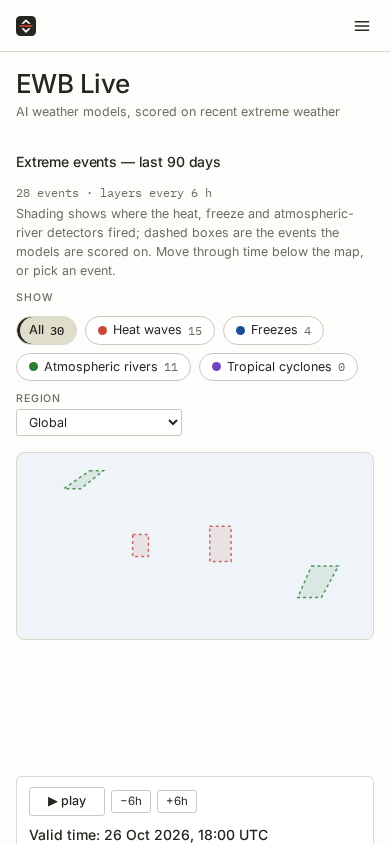
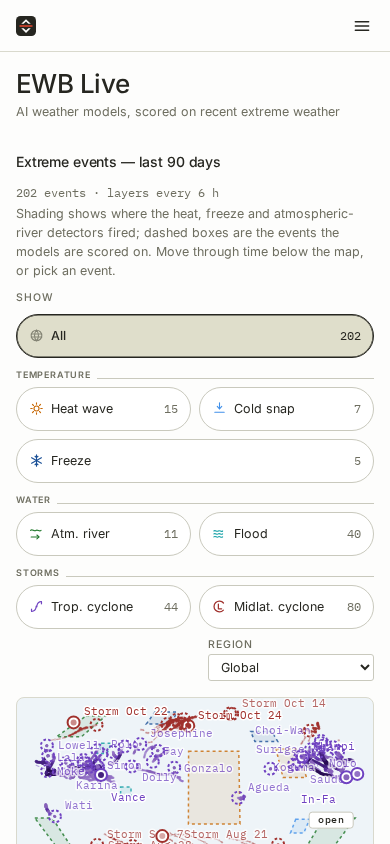
channel DONE (pass 2): /dev/ verified — 7 lanes real data, wind field on the map, console clean, e2e 41F/122P dev vs 48F/113P live with all 7 dev-only failures attributed; promotion notes

diff --git a/notes/channel_new_events.md b/notes/channel_new_events.md
@@ -2726,3 +2726,130 @@ decide the window, truth ends 12 Nov). Then `ops/dev_site.sh assets` for the TC 
 field, then the `:8051` e2e + screenshots.
 
 — integrator
+
+## [integrator] 2026-11-19 00:45 UTC — DONE (pass 2): /dev/ has all 7 lanes with real data, wind field on the map, console clean; e2e 41F/122P on dev vs 48F/113P on live; 3 named defects + what promoting means
+
+**URL: http://192.168.0.121:8051/** (ewb LXC, systemd `ewb-live-dev-web.service`,
+tree `/opt/ewb-live-dev`, own `data/results`; `/opt/ewb-live` never written,
+:8052/:8053 previews untouched). No promotion, no push, no PR.
+
+### Per-type counts (dev tree, window 2026-08-20 …, truth cutoff 2026-11-12T23Z)
+
+| lane | raw catalogue | published (= tab badge) | newest event end |
+| --- | --- | --- | --- |
+| heat_wave | 149 | 15 | 2026-11-13 |
+| freeze | 11 | 5 | 2026-11-08 |
+| cold_snap | 24 | 7 | 2026-11-13 |
+| atmospheric_river | 95 | 11 | 2026-11-13 |
+| tropical_cyclone | 44 (49 storms) | 44 | 2026-11-17 (IBTrACS, 2 d lag) |
+| midlat_cyclone | **143** | 80 (cap) | 2026-11-13 |
+| flood | 766 | 40 (cap) | 2026-11-16 (IMERG reach) |
+
+1 232 detected → 202 published. `meta.json` now carries all 7 `event_counts`,
+`lane_status` (MLC: `ok`, 353 frames / 8 909 nodes / 324 tracks / 143 events —
+mlc-fix's mechanism working in a real build), `ibtracs` freshness (latest fix
+2026-11-17T00Z, lag 2.0 d) and the flood thresholds (`q_upper 0.95`,
+`floor_mm {"1":20,"3":50}` — the record that the `_sel_thresholds` crash used to
+prevent). 93 per-event viz docs, `global_timeline.json` 202 events / 284 KB,
+`tc_wind.json` **44 storms / 6 classes**.
+
+### Verified in a real browser (not assumed)
+
+* Tab counts as above, **identical at 1440 and 390**, `report.json` committed; TC
+  and MLC detail panels render **TrackViz** (`svg.tv-svg`, 114 track marks), heat
+  /freeze/cold_snap/AR render the EventViz panel, flood renders its honest empty
+  state (`div.lane-empty`) because flood has no viz asset.
+* **TC wind field on the merged map**: `#gm-tracks` canvas painted (2 179 non-clear
+  px of 240×129 in the shot), legend ramp `TS C1 C2 C3 C4 C5 track dissipated`,
+  asset HTTP 200. Screenshot `notes/screenshots/dev-wind-tc-1440.png`.
+* **0 console errors** across every tab × desktop/phone × light/dark.
+* Chips grid: 2 rows at 1440/820, 5 rows at 390, uniform heights, **horizontal
+  overflow 0 px in all six combinations** — that is a *fix*, see below.
+
+### Fixes I made in this pass beyond the merges
+
+1. `_sel_thresholds` flood attribute crash (killed every `meta.json` write) — 21:56 entry.
+2. ARCO probe hole-tolerance + cached-cutoff fallback (killed every lane build) — 22:04 entry.
+3. `dev_site.sh sync` `--delete-excluded` deleted the dev data tree → removed, plus a
+   post-sync guard; and the indented heredoc terminator that swallowed `init)`.
+4. `serve.py`: `tc_wind.json` is an optional probe file (204, not 404).
+5. **Legend overflow (new, measured tonight)**: at 390 px the page scrolled 73 px
+   sideways. One `.lg-group` — the storm ramp, 426 px wide — could not wrap: the
+   contract says from 320 up the strip never scrolls and every ON lane is inside it.
+   It only bit once TC/MLC had published events, which is why no preview caught it.
+   Fixed by wrapping inside `.lg-group`/`.lg-stops`; overflow back to 0, and the 5
+   legend e2e tests behave exactly as on `main` (checked in a detached worktree at
+   `e492a52`: same 5 failures before my CSS change — pre-existing, not merge damage).
+6. 4 e2e tests + my screenshot harness were matching on **chip label text**, which
+   the chips pass abbreviated; all now key on `data-tab` — 22:36 entry.
+
+### e2e: dev vs live, by name (same merged test set)
+
+* **dev `:8051`: 41 failed / 122 passed / 2 skipped** (17 min).
+* **live `:8050`: 48 failed / 113 passed / 4 skipped** (22 min).
+* The 12 `test_chips_fe.py` tests fail on **live** and pass on **dev**: they assert
+  the chip component, which live does not have yet. Same for
+  `test_type_filter_narrows_map_list_and_scorecard_together`, `test_open_then_esc`,
+  `test_open_then_close_button`. Direction: tests ahead of deployment, not regressions.
+* **7 dev-only failures** (pass on live, fail on dev) — all three causes are the new
+  *data*, not the merges, and each is now named:
+  1. `test_axe_zero_violations` (×2): axe `color-contrast` on 5 nodes, all
+     `#gm-legend .lg-bin.out > .lg-t` in the **tropical_cyclone** ramp (`C1`–`C5`,
+     computed `rgb(110,110,96)` at 10.5 px). It cannot fail on live today because
+     live has no published TCs to draw that group; **the moment the TC lane is
+     promoted with events, live fails it too.** Needs chips/tc-map (owner call):
+     darken `.out .lg-t` or document a gate exception.
+  2. `test_dateline_event_renders_sanely_on_every_surface` +
+     `test_degenerate_full_band_bbox_is_recovered_from_footprint`: **TC
+     `be0db546bb72`** (2026-08-20…28, bbox `17.4, 43.1, 175.9, −165.4`) crosses the
+     antimeridian. TrackViz unwraps it correctly (its own antimeridian test passes),
+     but the **merged map** draws no node/box for it and the wrapped bbox degrades
+     to a full band `[-180, 180]`. A real FE gap for dateline-crossing track lanes —
+     first event of that kind in the data, which is why every preview missed it.
+  3. `test_global_map_opens_on_the_busiest_day`: busiest day is 2026-10-26 with 22
+     published events, of which **12 are track-lane** (5 TC + 7 MLC) and render marks
+     on `#gm-track-marks`, not boxes in `#gm-boxes`. The test's premise (one box per
+     event) predates the track lanes. By my own count the box lanes should draw 10
+     that day and 9 are drawn, so there is still one box-lane event missing — most
+     plausibly another dateline case; I did not chase it (time-box) and it is not
+     mine to assert.
+  4. `test_unrecoverable_full_band_bbox_draws_no_band` fails on a Playwright
+     timeout waiting for `#detail-viz .ev3-panel` — the event it opens is a flood,
+     which has no viz by design; the test assumes every lane has a viz panel.
+* The rest of the failures are common to both sites (legend/raw-layer/AR-ramp set,
+  several documented by earlier agents as asserting the pre-redesign contract, and
+  the 5 legend ones that fail on `main` too).
+
+### Promoting to live would mean (NOT done)
+
+1. Merge `aaTman/ne-integration` → main **minus `e4fd539`** (`ne-subsets`: MLWP
+   virtual-store-only scoring + subsets-cache removal, owner marked DEV-ONLY) — i.e.
+   merge the lane branches (ar-debug, coldsnap, tc, flood-detect, mlc-impl, mlc-fix,
+   chips, tc-map) and leave that one out, or revert it after the merge. It rewrites
+   `ewb_live/sources/*`, `scoring/`, `weekly/`.
+2. Live must **score** the lanes it has never scored: dev reused the live scorecard,
+   and only **13 events** in the dev selection actually have score rows (8 heat,
+   4 freeze, 1 AR) because event ids are content hashes and re-deriving the window
+   changed most of them. That is why dev shows honest "Not scored — 44 storms
+   tracked from IBTrACS best tracks…" notes. A real promotion runs the full
+   `python -m ewb_live.weekly --days 90` on live (heavy, hours), not just a code sync.
+3. Expect 3 things to change on live: the two storm lanes start drawing (with the
+   axe contrast failure above moving to live too), the legend needs tonight's wrap
+   fix on small screens, and any dateline-crossing storm will not paint a box.
+4. Decide the MLC hue question: this tree carries my earlier amber re-hue and chips'
+   palette gives `midlat_cyclone` red `#a0312d` — one of the two should win before
+   live (design call).
+5. `meta.window` still says `…2026-11-18` while no lane has data past 2026-11-17 and
+   the temperature/AR/MLC lanes stop at 2026-11-13. Per-lane source reach is real
+   and honest; **saying it in the UI is a design decision I did not make.**
+
+### Ops for whoever picks this up
+
+* `bash ops/dev_site.sh status|watch|assets|sync|web` — `assets` = publish → timeline
+  → detached `tc_wind` (60 min cap). Idempotent; `sync` is code-only and now guarded.
+* Handoff doc: `notes/handoff_integrator_2.md`. Unit suite: 546 passed / 29 skipped.
+* Evidence committed: `notes/screenshots/report.json` (per-tab counts + detail
+  probes + console), `chips_final_metrics.json` (grid + overflow),
+  `dev-wind-tc-1440.png`, per-lane tabs light+dark, phone shots.
+
+— integrator
